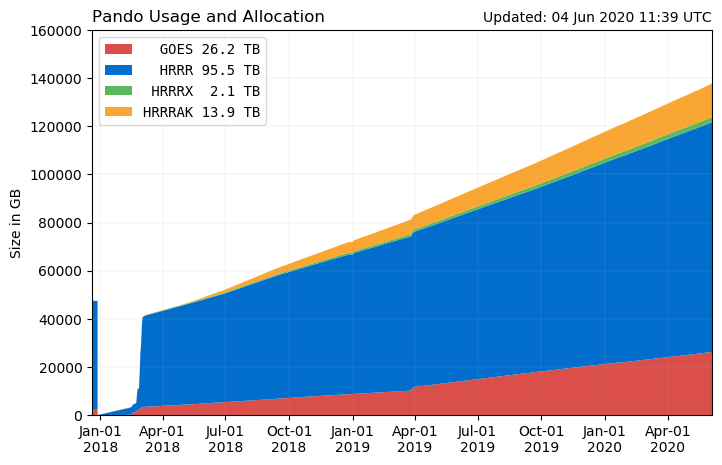
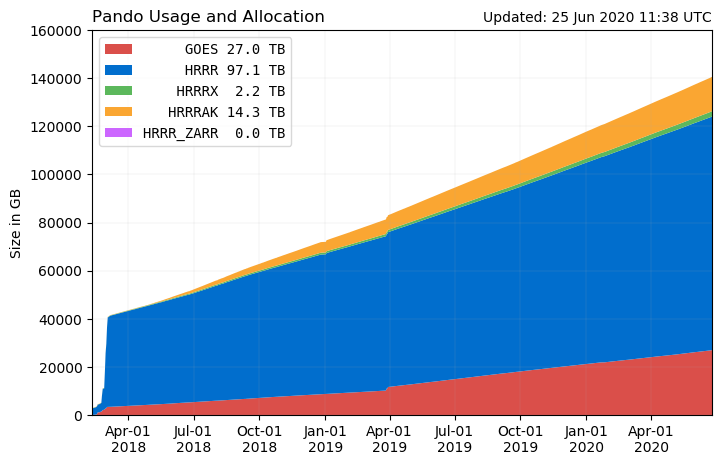
updates

diff --git a/hrrr_script_tips.html b/hrrr_script_tips.html
@@ -106,9 +106,9 @@
                 <br><br>
                 <table style="max-width:800px" class="table table-hover" align='center'>
                     <tr><th>Model Name</th><th>Model Type</th><th>Model Cycle</th><th>Archived Forecasts</th></tr>
-                    <tr><td>Operational HRRR</td><td>hrrr</td><td>Hourly<br>range(0,23)</td><td>sfc: f00-f18<br>prs: f00</td></tr>
+                    <tr><td>Operational HRRR</td><td>hrrr</td><td>Hourly<br>range(0,23)</td><td>sfc: f00-f18 or f00-f36<br>prs: f00</td></tr>
                     <tr><td>Experimental HRRR</td><td>hrrrX</td><td>Hourly<br>range(0,23)</td><td>sfc: f00</td></tr>
-                    <tr><td>HRRR Alaska</td><td>hrrrak</td><td>Every 3 hours<br>range(0,23,3)</td><td>sfc: f00</td></tr>
+                    <tr><td>HRRR Alaska</td><td>hrrrak</td><td>Every 3 hours<br>range(0,23,3)</td><td>sfc: f00-18 or f00-f36</td></tr>
                 </table>
 
                 <div class="panel panel-default">
@@ -159,9 +159,15 @@
                 <hr>
 
                 <h4><b>cURL</b> download single variable</h4>
-                <p>If you know the byte range of the variable you want (found from the .idx file), you can retrieve that single variable. The .idx files share the same URL as the grib2, except with .idx appended to the end. For example, from the <a href="https://pando-rgw01.chpc.utah.edu/hrrr/sfc/20180101/hrrr.t00z.wrfsfcf00.grib2.idx">.idx file for F00 valid at 0000 UTC 1 January 2018</a>, we see that the byte range for <kbd>TMP:2 m</kbd> starts at 34884036 and ends at 36136433.</p>
-                <p><code>curl -o 20180101_00zf00_2mTemp.grib2 --range 34884036-36136433 https://pando-rgw01.chpc.utah.edu/hrrr/sfc/20180101/hrrr.t00z.wrfsfcf00.grib2</code>
-                <p>After inspecting the downloaded file, you will see cURL has returned a valid grib2 file with only the 2 meter temperature variable.</p>
+                <p>GRIB files are gridded binary. They are made of "messages" or "fields" stacked on top of each other. Each field contains the data for a variable at a specific level across the model domain. It is possible to download portions of the full GRIB2 file and what you get is a valid GRIB2 file.
+                
+                <p style="text-align: center;"><img src='images/GRIB2_file_cURL.png' width=50%>
+                
+                <p>If you know the byte range of the variable you want (found from the <code>.idx</code> file), you can retrieve that single variable. The <code>.idx</code>> files share the same URL as the grib2, except with <code>.idx</code>> appended to the end. For example, from the <a href="https://pando-rgw01.chpc.utah.edu/hrrr/sfc/20180101/hrrr.t00z.wrfsfcf00.grib2.idx"><code>.idx</code> file for F00 valid at 0000 UTC 1 January 2018</a>, we see that the byte range for <kbd>TMP:2 m</kbd> starts at <code>34884036</code> and ends at <code>36136433</code>.</p>
+<pre>curl -o 20180101_00zf00_2mTemp.grib2 --range 34884036-36136433 https://pando-rgw01.chpc.utah.edu/hrrr/sfc/20180101/hrrr.t00z.wrfsfcf00.grib2</pre>
+                <p>After inspecting the downloaded file, you will see cURL has downloaded a valid GRIB2 file with only the 2 meter temperature variable.</p>
+                <p>You could repeat the steps for different byte ranges to get different variables and append the output to a file</p>
+                <p><code>curl --range ######-###### <URL> >> outFile.grib2</code></p>
     
                 <br>
                 <div class="panel panel-success">
@@ -192,28 +198,66 @@
 
             <div id="tab3" class="tab-pane fade">
                 <br>
-                <p> I use Python version 3 with Anaconda. My environment can be found in my <a href='https://github.com/blaylockbk/pyBKB_v3'>pyBKB_v3</a> repository.
+                <p> I use Anaconda with Python version 3. My <a href='https://github.com/blaylockbk/pyBKB_v3/blob/master/environment.yml'><code>environment.yml</code></a> file can be found in my <a href='https://github.com/blaylockbk/pyBKB_v3'>pyBKB_v3</a> repository. If you are unfamiliar with conda environments, look at the <a href='https://github.com/blaylockbk/pyBKB_v3/blob/master/README.md'>README</a> for details on how to create my environment from the <code>environment.yml</code> file.
                 
                 <br><br>
-                <h4> What to do when you have a GRIB2 file</h4>
-                <p> When you have a GRIB2 file, there are two key packages that read GRIB2 files. Both can be downloaded via `conda-forge`.
-                    <ol>
-                        <li><b>pygrib</b>: This is what I started to learn and continue to use.
-                                           This package is <i>not</i> available on Windows machines.
-                                           (<a href='https://github.com/jswhit/pygrib'>source</a>)</li>
-                        <li><b>cfgrib</b>: Fairly new and works well with xarray.
-                                           Version 0.9.7 and greater can read HRRR files.
-                                           This package does work on Windows machines.
-                                           (<a href='https://github.com/ecmwf/cfgrib'>source</a>)</li>
-                    </ol>
 
-                <br>
-                <h4> How to retrieve HRRR files (or other objects) from the Pando archive.</h4>
-                <br>
-                
                 <div class="panel panel-default">
                     <div class="panel-heading">
-                        <h3 class="panel-title">List and download Pando objects with <span style='font-family:monospace'>s3fs</span></h3>
+                        <h3 class="panel-title">How to download HRRR GRIB2 files</h3>
+                    </div>
+                    <div class="panel-body">
+                        <p>If you just want to download a few files, the easiest way is with the <a href='http://home.chpc.utah.edu/~u0553130/Brian_Blaylock/cgi-bin/hrrr_download.cgi'> web download interface</a> which makes downloading files as easy as clicking a button. 
+                        
+                        <p>Most users, however, need to download a bunch of HRRR files. You will need to write a script for that. The most simple way to download a file from Pando is with <code>urllib.request</code>. Writing a script is as simple as changing the URL to get the files you want.
+<pre>
+import urllib.request
+download_this = 'https://pando-rgw01.chpc.utah.edu/hrrr/sfc/20200624/hrrr.t01z.wrfsfcf17.grib2'
+save_as = 'my_file.grib2'
+urllib.request.urlretrieve(download_this, save_as)</pre>
+                        
+                        <p>I made this Jupyter Notebook for you. It demonstrates how to use my <code>download_HRRR</code> function to download many files from the Pando (or NOMADS) HRRR archive. All you need to give the function is a list of datetimes and forecast hours.
+                        <br><br>
+                        <a class='btn btn-lg btn-success' href='https://github.com/blaylockbk/pyBKB_v3/blob/master/demo/demo_download_hrrr_archive.ipynb'><i class="fab fa-github"></i> Jupyter Notebook </a>
+                    </div>
+                </div>
+
+                <div class="panel panel-default">
+                    <div class="panel-heading">
+                        <h3 class="panel-title">How to download select variables from a HRRR GRIB2 file</h3>
+                    </div>
+                    <div class="panel-body">
+                        <p>Full HRRR files are very large (~150 MB) and that adds up quick if you need a lot of days and forecasts. Often, you only need some of the data in the file. Remember that GRIB2 data is based on messages made up of binary concatenated together. It is possible to download only the parts of the file for specific variables or "fields" that you want. 
+
+                        <p style="text-align: center;"><img src='images/GRIB2_file_cURL.png' width=50%>
+                        
+                        <p>You will save a lot of disk space and improve download time if you download just the variables you need. The size of a single HRRR grid is about 1 MB.
+
+                        <p>The challenge to downloading parts of the full GRIB2 file finding the byte range for a variable you want. The beginning byte of each variable is given in the index, or <code>.idx</code>, file.
+                        
+                        <p>Partial downloads with cURL require a known byte range.
+                        The grbi2.idx (
+                        <a href="http://home.chpc.utah.edu/~u0553130/Brian_Blaylock/HRRR_archive/HRRR_v3_variables_SFC.pdf">
+                        sfc example</a>
+                        ,   
+                        <a href="http://home.chpc.utah.edu/~u0553130/Brian_Blaylock/HRRR_archive/HRRR_v3_variables_PRS.pdf">
+                        prs example</a>) files are metadata text files that contain the beginning byte of each field in the file. <b>Each grib2 file has a unique index file.</b> To find the byte range for a variable, the above function searches for the line that
+                        contains the specified variable abbreviation and level.
+                        <p style='text-align: center;'><img src='./images/HRRR_idx_description.png' width=75%  title="grib2.idx file example">
+
+                        <p> I created a Jupyter Notebook to show you how I do this and provide a function to download a set of variables from a HRRR GRIB2 file
+
+                        <br><br>
+                        <a class='btn btn-lg btn-success' href='https://github.com/blaylockbk/pyBKB_v3/blob/master/demo/demo_download_hrrr_archive_subset.ipynb'><i class="fab fa-github"></i> Jupyter Notebook </a>
+                      
+                    </div>
+                </div>
+<p>A quick note on multi-threading your downloads. It probably isn't worth it. The archive bandwidth is limited, and will cause a bottleneck if you try downloading too much (and that makes it slow for us to put new data on the archive). I tried using multiprocessing and multi-threading and found that the download speed saturates around 3 or more threads. 
+<p style='text-align: center;'><img src="./images/fast_download.png" width="450px">
+
+                <div class="panel panel-default">
+                    <div class="panel-heading">
+                        <h3 class="panel-title">List and download Pando objects with <code>s3fs</code></h3>
                     </div>
                     <div class="panel-body">
                         You can access the Pando S3 "hrrr" buckets directly with <span style='font-family:monospace;'>s3fs</span>.
@@ -232,94 +276,38 @@
                             fs.get(files[0], files[0].split('/')[-1])
                         </div>
 
-                        This is a good method to use if you don't know the file names on Pando (such as if you are looking at GOES files), 
-                        but the HRRR file names are very predictable. The following examples show how to download the files
-                        with the straightforward <span style='font-family:monospace;'>urllib.request</span> and how to download a subset of a files
+                        <p>This is a good method to use if you don't know the file names on Pando (such as if you are looking at GOES files), but the HRRR file names are very predictable. The following examples show how to download the files with the straightforward <span style='font-family:monospace;'>urllib.request</span> and how to download a subset of a files
                         (single variable grid) by exploiting the byte range feature of cURL.
                     </div>
                 </div>
 
-                <div class="panel panel-default">
-                    <div class="panel-heading">
-                        <h3 class="panel-title">Download full grib2 files</h3>
-                    </div>
-                    <div class="panel-body">
-                        Download the full grib2 file from the Pando archive.
-                        'sfc' files are about 150 MB each, and 'prs' files are
-                        about 320 MB each.
-                        <script src="https://gist.github.com/blaylockbk/78d4dd9c159e8974f288b0a57f68c266.js"></script>
-                    </div>
-                </div>
+                <hr>
 
                 <div class="panel panel-default">
                     <div class="panel-heading">
-                        <h3 class="panel-title">Download single HRRR variable from file</h3>
+                        <h3 class="panel-title">How to read GRIB2 data with Python</h3>
                     </div>
                     <div class="panel-body">
-                        It is more efficient if you only download the variables
-                        you are interested in. While a full sfc file is about
-                        150 MB, a single variable field is about 1 MB.
-                        You can perform partial downloads of the grib2 files to 
-                        extract the variables you want with cURL.
-                        <br><br>
-                        Main function: <b>download_HRRR_variable_from_pando()</b>
-                        <script src="https://gist.github.com/blaylockbk/39d2c5244b988706d9c51dd9fd514650.js"></script>
-                                       
-                        Partial downloads with cURL require a known byte range.
-                        The grbi2.idx (
-                        <a href="http://home.chpc.utah.edu/~u0553130/Brian_Blaylock/HRRR_archive/HRRR_v3_variables_SFC.pdf">
-                        sfc example</a>
-                        ,   
-                        <a href="http://home.chpc.utah.edu/~u0553130/Brian_Blaylock/HRRR_archive/HRRR_v3_variables_PRS.pdf">
-                        prs example</a>
-                        ) files are metadata text files that 
-                        contain the begining byte of each
-                        field in the file. <b>Each grib2 file has a unique
-                        metadata file.</b> To find the byte range for a
-                        variable, the above function searches for the line that
-                        contains the specified variable abbreviation and level.
-                        <center><img src='./images/HRRR_idx_description.png' width=75%  title="grib2.idx file example"></center>
-
-                        Example: Download single variable for single day
-                        <script src="https://gist.github.com/blaylockbk/57af6bae72b3f41199f2ad3583bd37a4.js"></script>
-
-                        Example: Download single variable for date range 
-                        <script src="https://gist.github.com/blaylockbk/d1978e7865490d362c9c96e1e3d4348e.js"></script>
-
-                        Example: Download multiple variables for date range, each variable in it's own file.
-                        <script src="https://gist.github.com/blaylockbk/8ff6174ec9b00c741f29f5fe76ba6a6b.js"></script>
-                      
-                        Example: Multithreading for fast downloads.
-                        <script src="https://gist.github.com/blaylockbk/4632bfec251a85dc10dd76826af4c662.js"></script>
-                        I tested the time it takes to download using 
-                        a sequential download (one at a time), multiprocessing,
-                        and multithreading. Multithreading is the correct way to 
-                        do this. The download time saturates after about 8 threads.
-                        <center><img src="./images/fast_download.png" width="450px"></center>
-
-                        <br>
-                        <p>Example: Downloading adjacent variables.
-                        <p>You may be interested in retrieving more than one variable
-                        at a time, and keep it all in one grib2 file.
-                        This can be done by requesting a byte range that spans
-                        more than one variable. This method works if the variables
-                        you are interested in downloading are adjacent to each
-                        other in the grib2 file. For example, if you want the 
-                        10 meter U and V wind components, you are in luck
-                        because they are adjacent variables. In the main function,
-                        set the more_vars argument to the number of additional 
-                        files to download, setting variable = to the first 
-                        field you want to download.
-                        <p>For example: If you want all the variables at 500 mb, 
-                        set <b>variable='HGT:500 mb'</b> and set <b>more_vars=4</b>,
-                        which will download
-                        'HGT:500 mb', 'TMP:500 mb', 'DPT:500 mb', 'UGRD:500 mb', and 'VGRD:500 mb'
-                        in the same grib2 file.
-                        <script src="https://gist.github.com/blaylockbk/9ef5f3da833ce6fbf5be9334c3cf6b3d.js"></script>
-
+                        <p> When you have a GRIB2 file, there are two key packages that read GRIB2 files. Both can be installed via conda-forge.
+                    <ol>
+                        <li><b>pygrib</b> is what I started to learn and still use sometimes.
+                            | <a href="https://youtu.be/yLoudFv3hAY"><i class="fab fa-youtube"></i> Video Demo</a>
+                            | <a href='https://jswhit.github.io/pygrib/docs/index.html'><i class="fas fa-book"></i> Documentation</a>.</li>
+                        <li><b>cfgrib</b> works well reading GRIB2 data as xarray datasets. Make sure you have the latest version (>0.9.8)
+                            | <a href='https://github.com/ecmwf/cfgrib'><i class="fas fa-book"></i> Documentation</a></li>
+                            <h4>Getting Started with <code>cfgrib</code></h4>
+                            <div class='well'>
+                                <p><code>import cfgrib
+                                <p>a = cfgrib.open_datasets('hrrr.t00z.wrfsfcf08.grib2')</code>
+                            </div>    
+                            
+                            <p>The loaded data is a list of xarray dataset objects. Each item in
+                                the list is an xarray dataset for a different level. For example,
+                                entire atmosphere, height above ground, isobaric level, surface, etc.
+                    </ol>
                     </div>
                 </div>
-                
+
                 <div class="panel panel-default">
                     <div class="panel-heading">
                         <h3 class="panel-title">Plot a single variable with Python and pluck a single point using cURL</h3>
@@ -344,33 +332,16 @@
                     <div class="panel-body">
                         If you are patient enough to read all that, and have scrolled
                         down here, you are in luck! This is a link to the python functions
-                        I use to download the HRRR data. My method is to 
-                        download a single variable from a GRIB2 file that I need and
-                        store it on my local drive. Then I retrieve the data I want
-                        with <i>pygrib</i> and remove the file when I got what I needed.
-                        
-                        <big><a href="https://github.com/blaylockbk/pyBKB_v3/blob/master/BB_HRRR/HRRR_Pando.py">
-                        <i class="fab fa-github"></i> Code for HRRR_Pando Functions</a></big>
+                        I use to download the HRRR data. Albet, you could probably write something more effective for your work that than trying to hack my code. Still, it might give you some ideas...
+                        <br><br>
+                        <a class='btn btn-primary' href="https://github.com/blaylockbk/pyBKB_v3/blob/master/BB_HRRR/HRRR_Pando.py">
+                        <i class="fab fa-github"></i> Brian's <code>HRRR_Pando</code> functions (circa 2018)</a>
                     </div>
                 </div>
 
                 <hr>
 
-                <div class="panel panel-default">
-                        <div class="panel-heading">
-                            <h3 class="panel-title">Getting started with <b>cfgrib</b></h3>
-                        </div>
-                        <div class="panel-body">
-                            <div class='well'>
-                                <p><code>import cfgrib
-                                <p>a = cfgrib.open_datasets('hrrr.t00z.wrfsfcf08.grib2')</code>
-                            </div>    
-                            
-                            <p>The loaded data is a list of xarray dataset objects. Each item in
-                                the list is an xarray dataset for a different level. For example,
-                                entire atmosphere, height above ground, isobaric level, surface, etc.
-                        </div>
-                </div>
+                
             </div>
 
             <div id="tab4" class="tab-pane fade">

diff --git a/Pando_archive/index.html b/Pando_archive/index.html
@@ -46,18 +46,21 @@
 
 <br>
   <script src='./js/pando_status.js'></script>
-    <center><font size=12> 137.8 TB out of 160 TB</font>
+    <center><font size=12> 140.5 TB out of 160 TB</font>
     <div class="progress" style="max-width:700px;height:35px">
-            <div class="progress-bar progress-bar-danger" role="progressbar" style="width:16%">
+            <div class="progress-bar progress-bar-danger" role="progressbar" style="width:17%">
               <font size=4></font>
             </div>
-            <div class="progress-bar progress-bar-primary" role="progressbar" style="width:60%">
+            <div class="progress-bar progress-bar-primary" role="progressbar" style="width:61%">
               <font size=4></font>
             </div>
             <div class="progress-bar progress-bar-success" role="progressbar" style="width:1%">
               <font size=4></font>
             </div>
             <div class="progress-bar progress-bar-warning" role="progressbar" style="width:9%">
+              <font size=4></font>
+            </div>
+            <div class="progress-bar progress-bar-danger" role="progressbar" style="background-color:#cc66ff;width:0%">
               <font size=4></font>
             </div>
           </div>
@@ -73,9 +76,9 @@
         <th style='text-align:center'>Estimated Full Date</th>
       </tr>
       <tr>
-        <td>119.99 GB</td>
-        <td>185</td>
-        <td>06 December 2020</td>
+        <td>134.14 GB</td>
+        <td>145</td>
+        <td>17 November 2020</td>
       </tr>
     </table>
     <table class="table table-bordered" style='text-align:center;max-width:700px'>
@@ -86,18 +89,18 @@
       </tr>
       <tr>
         <th style='text-align:right'>ABI-L2-MCMIPC</th>
-        <td>11.40</td>
-        <td>10.48</td>
+        <td>16.94</td>
+        <td>16.06</td>
       </tr>
       <tr>
         <th style='text-align:right'>GLM-L2-LCFA</th>
-        <td>0.77</td>
-        <td>0.76</td>
+        <td>1.99</td>
+        <td>1.16</td>
       </tr>
       <tr>
         <th style='text-align:right'>Total</th>
-        <th style='text-align:center'>12.18 GB</th>
-        <th style='text-align:center'>11.24 GB</th>
+        <th style='text-align:center'>18.92 GB</th>
+        <th style='text-align:center'>17.23 GB</th>
       </tr>
     </table>
 
@@ -111,13 +114,13 @@
       </tr>
       <tr>
         <th style='text-align:right'>sfc</th>
-        <td>67.11</td>
-        <td>3.34</td>
-        <td>17.50</td>
+        <td>67.77</td>
+        <td>3.31</td>
+        <td>18.22</td>
       </tr>
       <tr>
         <th style='text-align:right'>prs</th>
-        <td>8.64</td>
+        <td>8.69</td>
         <td>0.00</td>
         <td>0.00</td>
       </tr>
@@ -129,9 +132,9 @@
       </tr>
       <tr>
         <th style='text-align:right'>Total</th>
-        <th style='text-align:center'>75.75 GB</th>
-        <th style='text-align:center'>3.34 GB</th>
-        <th style='text-align:center'>17.50 GB</th>
+        <th style='text-align:center'>76.46 GB</th>
+        <th style='text-align:center'>3.31 GB</th>
+        <th style='text-align:center'>18.22 GB</th>
       </tr>
     </table>
 
@@ -142,7 +145,7 @@
     <a href="https://github.com/blaylockbk/Web-Homepage/blob/master/Pando_archive/index.html"><i class="fab fa-github"></i> Page</a>
     <a href="https://github.com/blaylockbk/Web-Homepage/blob/master/Pando_archive/daily_usage.py"><i class="fab fa-github"></i> Plot</a>
     <br>
-    Last Updated: 04 Jun 2020 11:39 UTC
+    Last Updated: 25 Jun 2020 11:38 UTC
   </div>
 
 </div>
